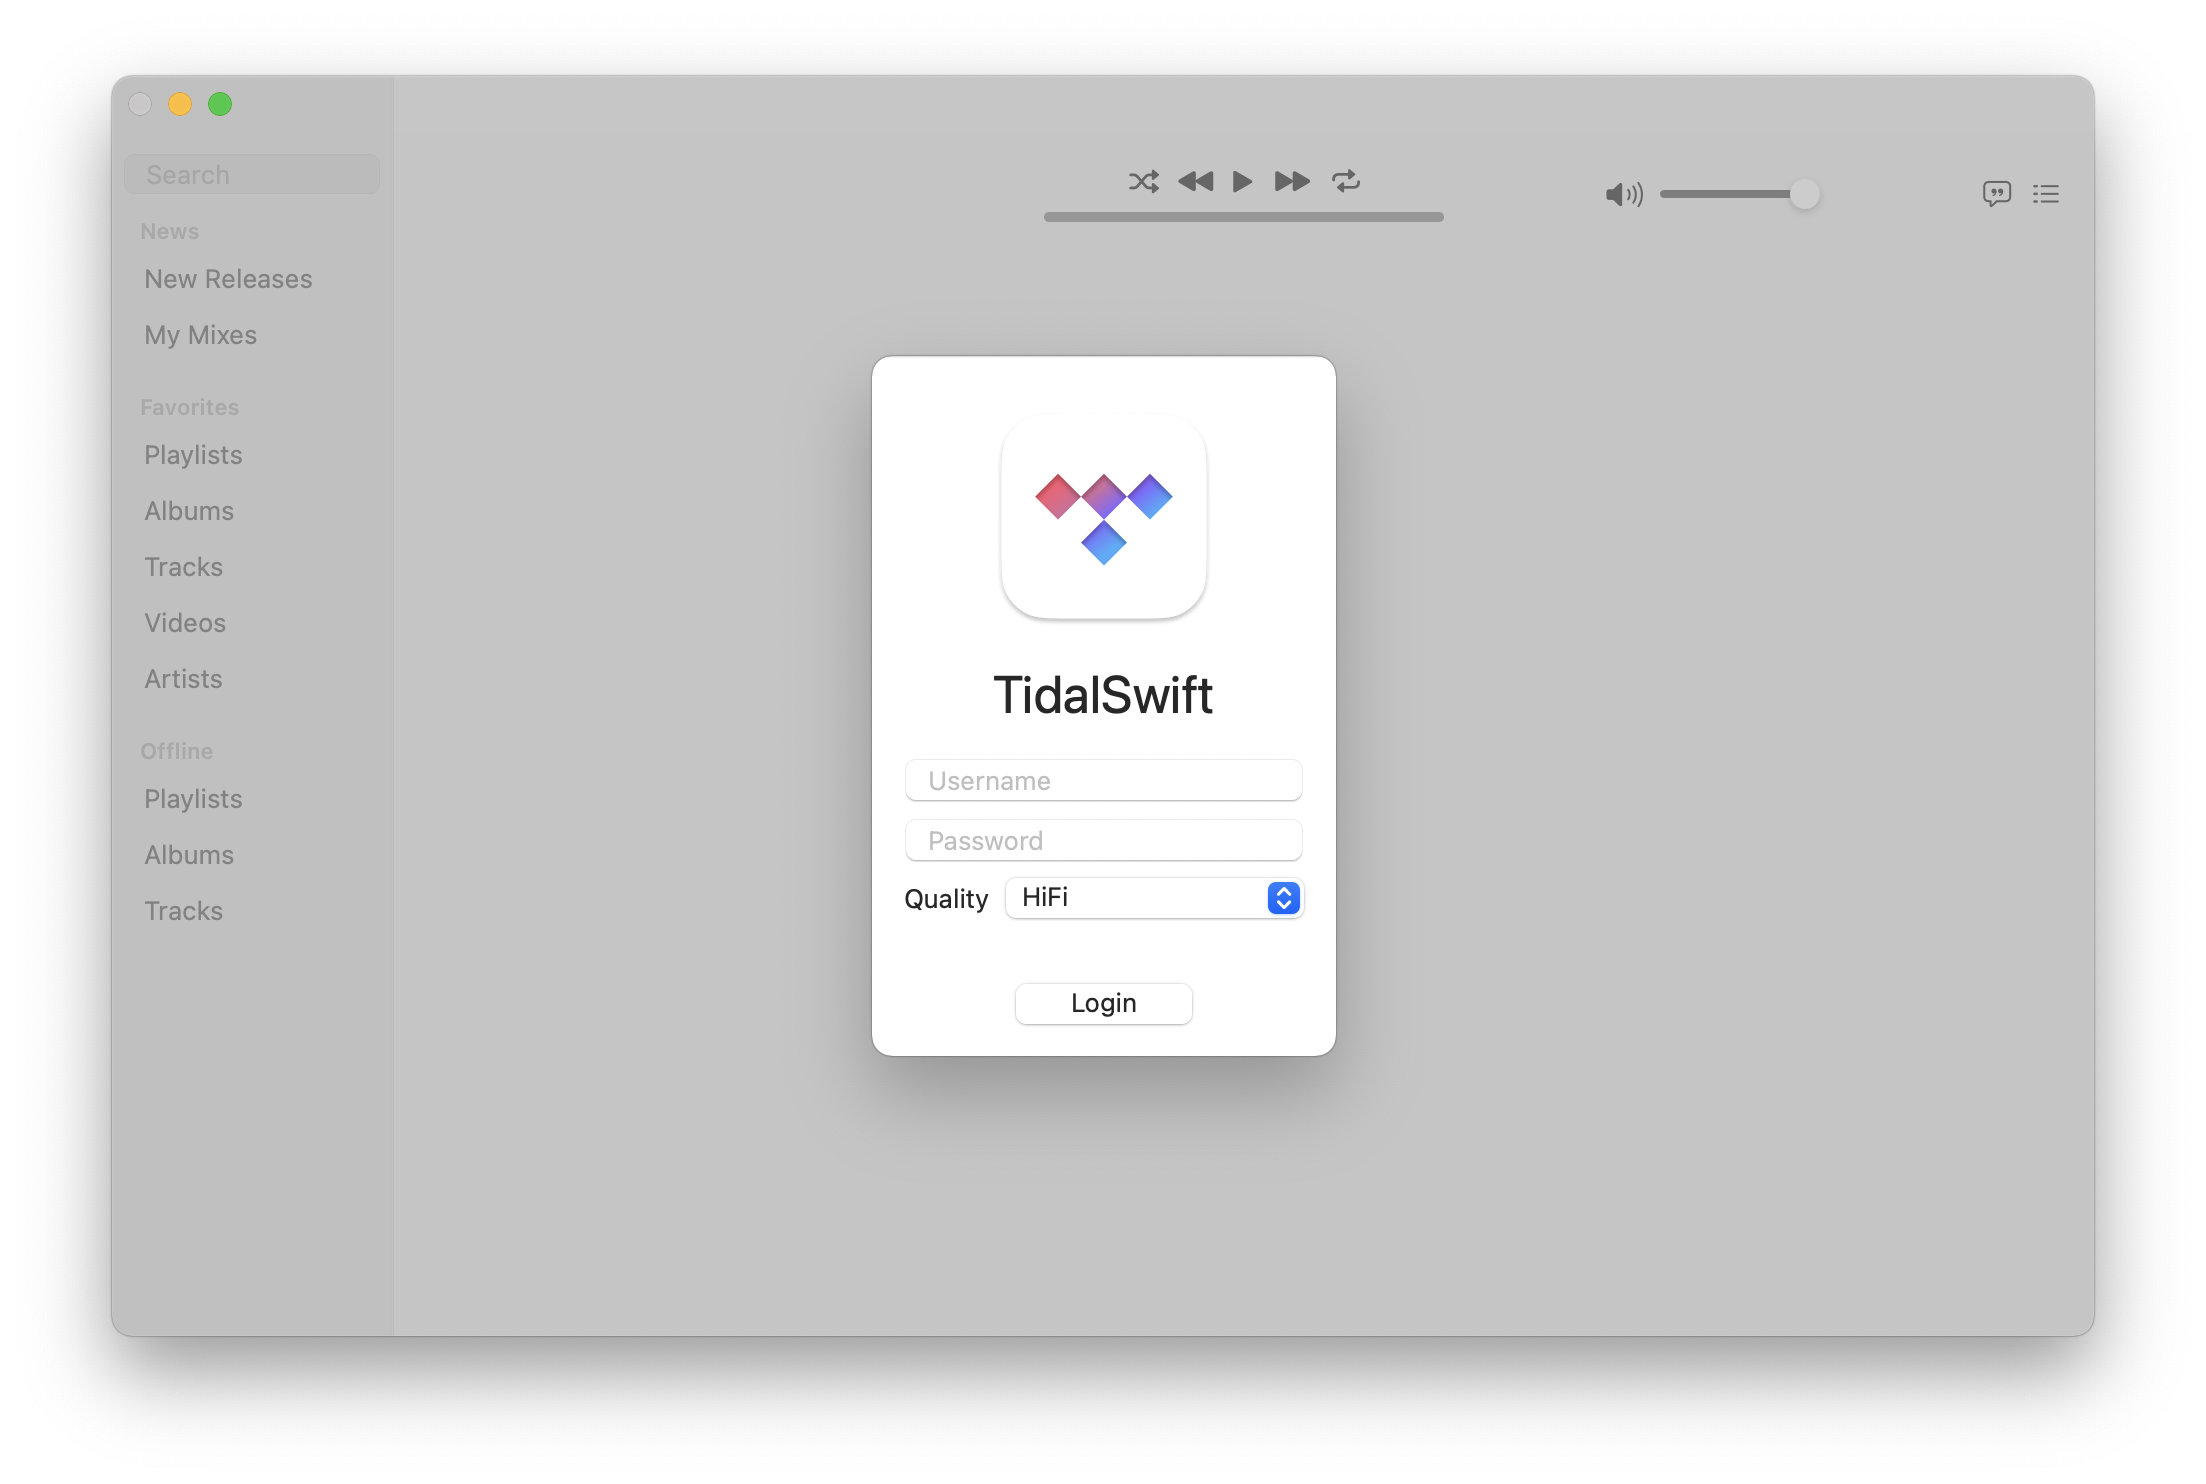
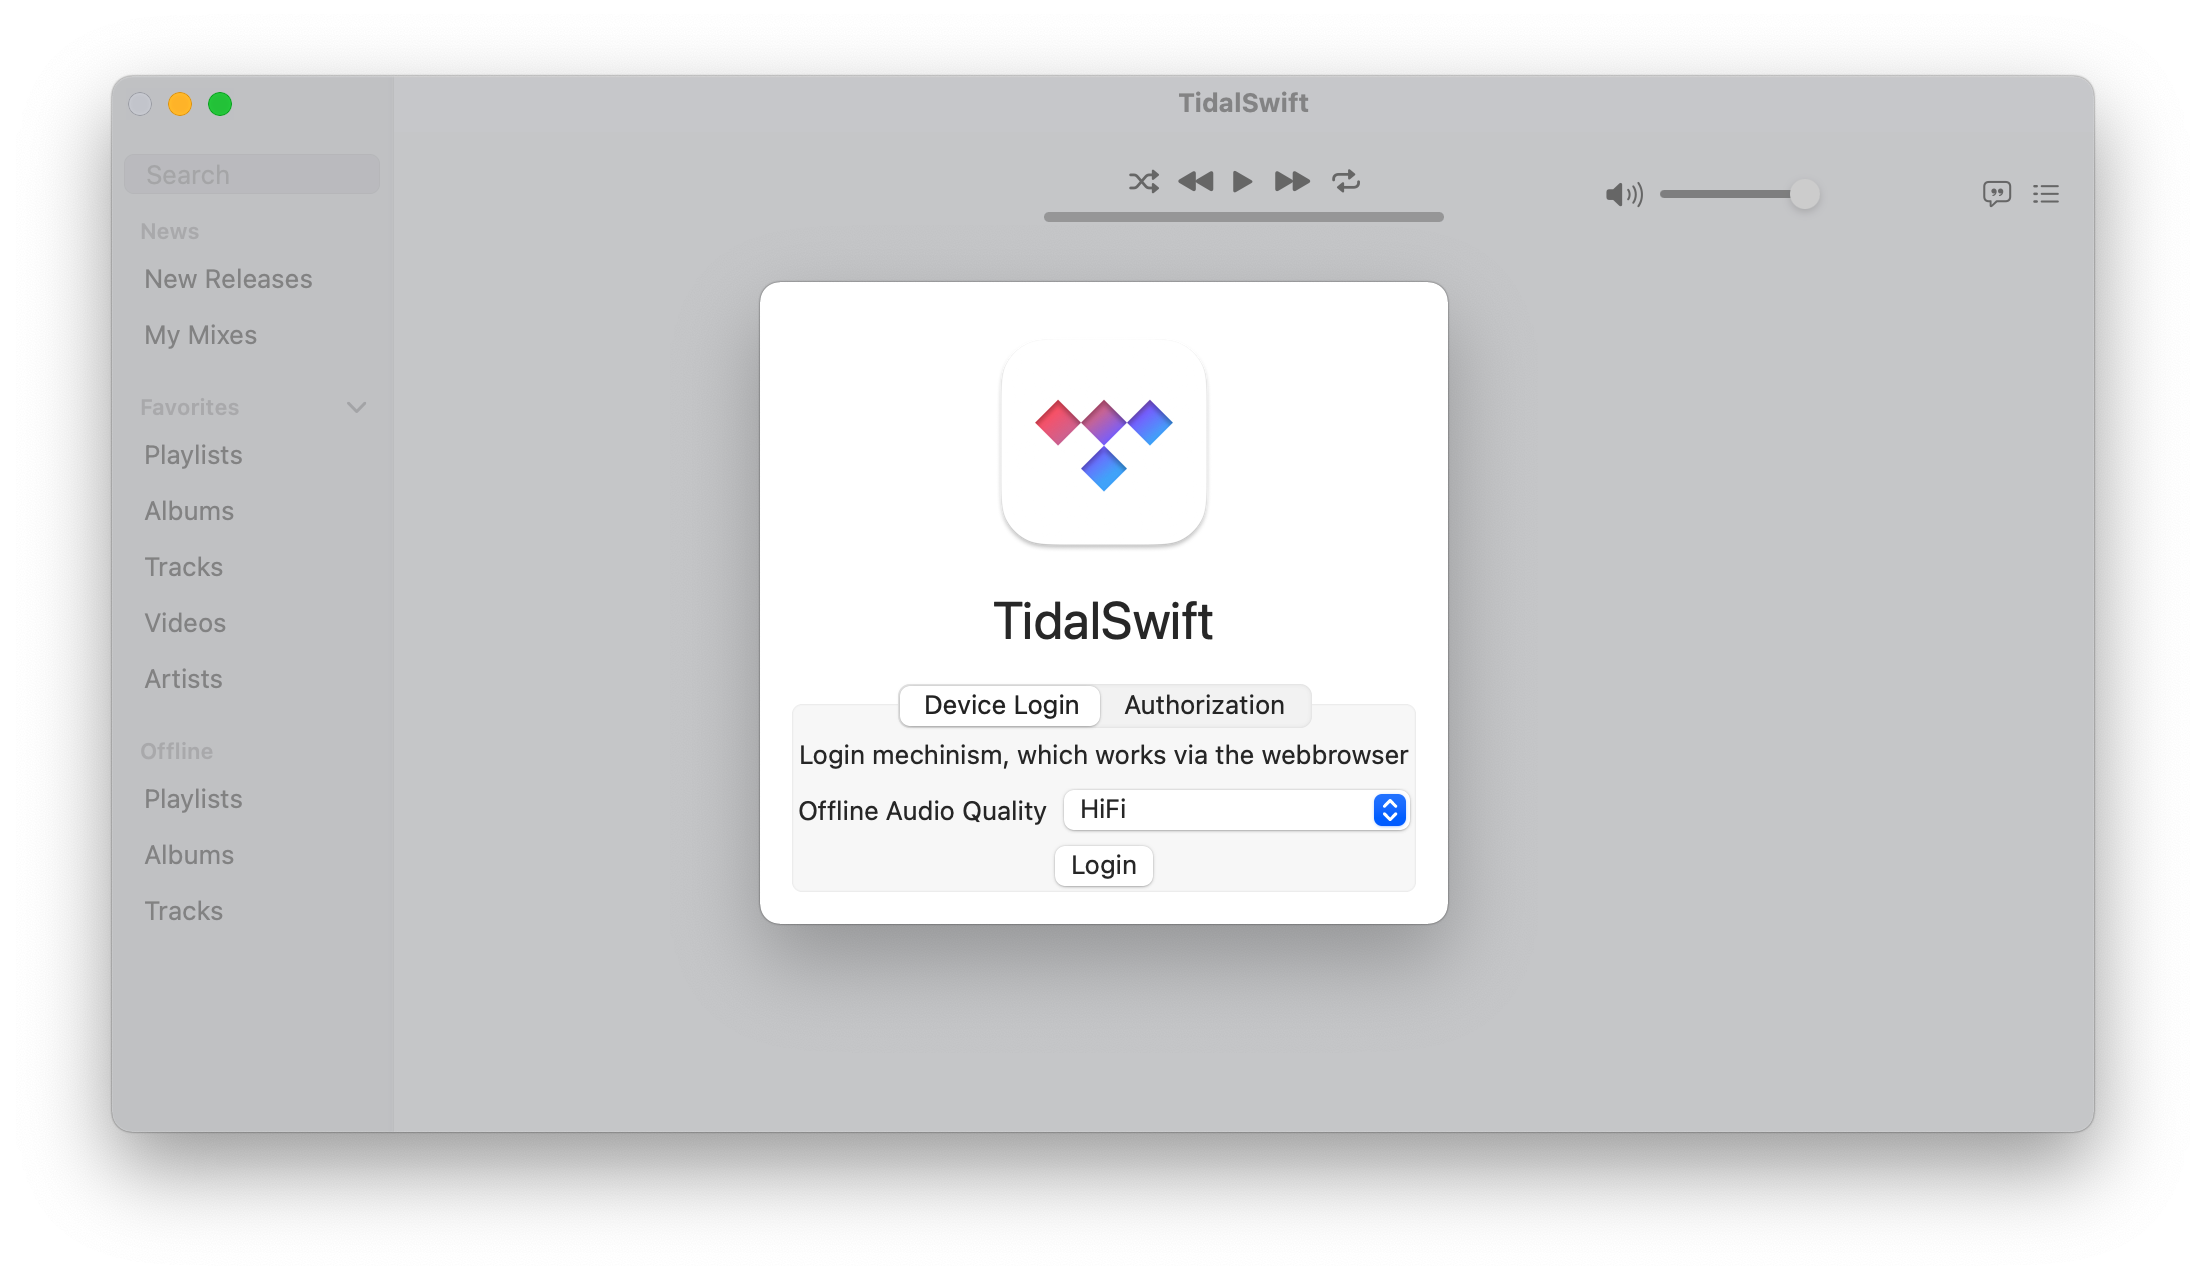
Remove recent changes section from README, switch LoginView screenshot in README.

diff --git a/README.md b/README.md
@@ -8,16 +8,6 @@ It supports all major features of the official Tidal app, while adding additiona
 
 
 
-## <span style="color:#B00000"> Recent changes </span>
-
-Due to a very recent change in the Tidal API, the login mechanism has changed. Before, you were asked for your username and password. Now, you need to provide an authorization key, which you can get by logging in a desktop web browser and than looking at the XHR queries in the developer view. From there, note the `authorization` header. Also look for the `countryCode` parameter in the query itself. Now visit your favorite tracks and look for the related query in the delevoper view. It will look something like this: `/v1/users/12345678/favorites/tracks`. The number in there is your user id. Use those three values to log into TidalSwift.
-
-I am working on bringing back the easy login from before.
-
-Also note, that Offline storage doesn't work correctly at this point. Files are not getting deleted as they should. Downloads are not affected.
-
-
-
 ## Download
 
 You can download the latest version [here](https://github.com/melgu/TidalSwift/releases).
